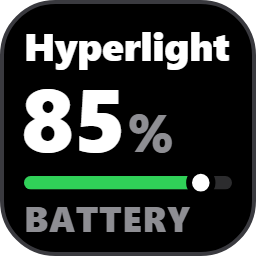
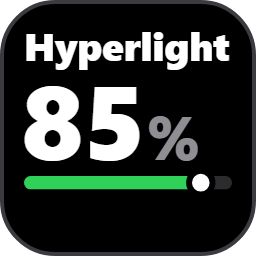
Stream Deck: Optician Sans number, status colours, update dot opt-in
The battery number and % are bigger and use Optician Sans when it's
installed (Segoe UI Black otherwise). Its digits are drawn one by one,
6% closer, because Stream Deck ignores negative letter-spacing and the
% ended up overlapping the number. The number, % and bar fill turn
orange from 25% down, red below 20%, and electric blue while charging.
The bottom line is empty unless there's something to say, the charging
bolt is gone, and the update dot is now off by default.

Changed region(s): [[0.0938, 0.3125, 0.7812, 0.6562], [0.0938, 0.7812, 0.75, 0.9062]]

diff --git a/streamdeck/com.fayewave.hyperlight.sdPlugin/bin/key.js b/streamdeck/com.fayewave.hyperlight.sdPlugin/bin/key.js
@@ -1,7 +1,7 @@
 // Draws the key in the same text-first style as the Aircon plugin's keys (after the
 // Apple Watch Modular complications): "Hyperlight" top left in white, the percent as
-// the biggest thing on the key (orange or red when low), a thin 0-100% bar (green up
-// to a dot at the level, grey after), and a small caps line underneath.
+// the biggest thing on the key (orange or red when low), a thin 0-100% bar (green, or
+// the number's orange or red, up to a dot at the level, grey after), and a small caps line underneath.
 //
 // Keys are drawn in a 96-unit box (one unit = one Stream Deck XL pixel) and handed to
 // Stream Deck as a 144px SVG. Stream Deck's SVG renderer is basic, so: no CSS, no
@@ -10,7 +10,8 @@ import fs from "node:fs";
 import path from "node:path";
 
 /** Apple's system colours, as on the Aircon keys. */
-export const COLORS = { healthy: "#30D158", moderate: "#FF9F0A", low: "#FF453A", stale: "#8E8E93" };
+/** charging: an electric blue, deeper than the update dot's light blue. */
+export const COLORS = { healthy: "#30D158", moderate: "#FF9F0A", low: "#FF453A", stale: "#8E8E93", charging: "#1E9BFF" };
 const GREY = "#8E8E93";
 const DIM = "#636366";
 const TRACK = "#2C2C2E";
@@ -24,20 +25,20 @@ export function tone(percent) {
 
 /**
  * The key's own options (its settings in Stream Deck). The text lines are off until
- * turned on, so by default the bottom line just says Battery; the update dot is on.
+ * turned on, so by default the bottom line is empty; so is the update dot.
  */
 export function options(settings) {
   return {
     remaining: settings?.showRemaining === true,
     charging: settings?.showCharging === true,
     asleep: settings?.showAsleep === true,
-    update: settings?.showUpdate !== false,
+    update: settings?.showUpdate === true,
   };
 }
 
 /**
  * What to show for a tray reply (see tray.js); undefined means not read yet.
- * { percent, color, caption, bolt, dim, dot } for a reading (color: the number's
+ * { percent, color, caption, dim, dot } for a reading (color: the number's
  * colour when low, else null for white), or
  * { word, caption } for a key with no number ("Start / Tray").
  */
@@ -45,13 +46,13 @@ export function view(s, opts = options()) {
   const dot = Boolean(s?.update) && opts.update;
   switch (s?.state) {
     case "battery": {
-      const charging = s.charging && opts.charging;
-      const caption = charging ? "Charging" : !s.charging && opts.remaining && s.remaining ? s.remaining : "Battery";
-      const t = tone(s.percent);
-      return { percent: s.percent ?? null, color: t === "healthy" ? null : COLORS[t], caption, bolt: charging, dot };
+      const caption = s.charging && opts.charging ? "Charging" : !s.charging && opts.remaining && s.remaining ? s.remaining : "";
+      // Charging turns the number and bar blue whether or not the Charging text is on.
+      const t = s.charging ? "charging" : tone(s.percent);
+      return { percent: s.percent ?? null, color: t === "healthy" ? null : COLORS[t], caption, dot };
     }
     case "asleep":
-      return { percent: s.percent ?? null, color: null, caption: opts.asleep ? "Asleep" : "Battery", dim: true, dot };
+      return { percent: s.percent ?? null, color: null, caption: opts.asleep ? "Asleep" : "", dim: true, dot };
     case "noReceiver":
       return { word: "No", caption: "Receiver", dot };
     case "stopped":
@@ -61,7 +62,7 @@ export function view(s, opts = options()) {
     case "missing":
       return { word: "Get", caption: "Tray" };
     default: // "checking", or before the first reply
-      return { percent: null, color: null, caption: "Battery", dim: true };
+      return { percent: null, color: null, caption: "", dim: true };
   }
 }
 
@@ -77,6 +78,20 @@ export function pickFont(dirs = fontDirs()) {
   }
   return "Segoe UI";
 }
+/**
+ * The battery number's font: Optician Sans when installed (a free font after the
+ * letters on eye charts), else null for the same font as the rest of the key.
+ */
+export function pickNumberFont(dirs = fontDirs()) {
+  for (const dir of dirs) {
+    try {
+      if (fs.readdirSync(dir).some((f) => /^optician/i.test(f))) return "Optician Sans";
+    } catch {
+      // folder missing
+    }
+  }
+  return null;
+}
 function fontDirs() {
   const dirs = [path.join(process.env.WINDIR ?? "C:\\Windows", "Fonts")];
   if (process.env.LOCALAPPDATA) dirs.push(path.join(process.env.LOCALAPPDATA, "Microsoft", "Windows", "Fonts"));
@@ -84,6 +99,8 @@ function fontDirs() {
 }
 let FONT = "Segoe UI";
 export const setFont = (f) => (FONT = f);
+let NUM_FONT = null;
+export const setNumberFont = (f) => (NUM_FONT = f);
 
 /*
  * Stream Deck can't measure text for us, so: advance widths (thousandths of the font
@@ -100,6 +117,10 @@ const WIDTHS = {
     900: table("286,272,515,600,600,964,766,269,407,407,456,600,272,445,272,349,600,600,600,600,600,600,600,600,600,600,272,272,600,600,600,478,954,763,702,688,786,614,579,747,786,312,390,712,585,884,758,807,676,807,706,651,644,748,742,1128,698,645,625,401,349,401,600,500,399,568,620,484,620,555,402,626,606,281,287,580,348,902,606,602,620,620,434,496,426,601,542,868,572,541,487,438,316,438,600,816,272,389"),
   },
 };
+/** Optician Sans comes in one weight; widths of what the number line can show (from its hmtx table). */
+const OPTICIAN = new Map(Object.entries({ 0: 0.6, 1: 0.55, 2: 0.55, 3: 0.55, 4: 0.551, 5: 0.55, 6: 0.55, 7: 0.515, 8: 0.55, 9: 0.55, "%": 0.77, "–": 0.8 }));
+const opticianWidth = (str, size) => [...String(str)].reduce((w, ch) => w + (OPTICIAN.get(ch) ?? 0.8), 0) * size;
+
 /** Width of str in the current font. spacing = letter-spacing, added after each character. */
 export function textWidth(str, size, { weight = 800, spacing = 0 } = {}) {
   const t = (WIDTHS[FONT] ?? WIDTHS["Segoe UI"])[weight >= 850 ? 900 : 800];
@@ -120,8 +141,8 @@ function truncate(str, size, max, opts = {}) {
 /* ---------- primitives ---------- */
 const f2 = (n) => Number(n.toFixed(2));
 const esc = (t) => String(t).replace(/[&<>"]/g, (c) => ({ "&": "&amp;", "<": "&lt;", ">": "&gt;", '"': "&quot;" })[c]);
-const text = (x, y, str, { size = 14, weight = 800, fill = "#fff", spacing = 0 } = {}) =>
-  `<text x="${f2(x)}" y="${f2(y)}" font-family="${FONT}" font-size="${size}" font-weight="${weight}" fill="${fill}" ` +
+const text = (x, y, str, { size = 14, weight = 800, fill = "#fff", spacing = 0, family = FONT } = {}) =>
+  `<text x="${f2(x)}" y="${f2(y)}" font-family="${family}" font-size="${size}" font-weight="${weight}" fill="${fill}" ` +
   `text-anchor="start"${spacing ? ` letter-spacing="${spacing}"` : ""}>${esc(str)}</text>`;
 const wrap = (body) =>
   `<svg xmlns="http://www.w3.org/2000/svg" width="144" height="144" viewBox="0 0 96 96">` +
@@ -147,17 +168,14 @@ function footer(str, color, max) {
   while (size > 11.5 && textWidth(str, size, o) > max) size -= 0.5;
   return text(X, 87, truncate(str, size, max, o), { size, ...o, fill: color });
 }
-/** A charging bolt, the Aircon plugin's "bolt" icon. */
-const bolt = (x, y, s, c) =>
-  `<g transform="translate(${f2(x)} ${f2(y)}) scale(${f2(s / 24)})"><path d="M13.8 1.8 4.6 13.6H11.4L10.2 22.2 19.4 10.4H12.6Z" fill="${c}"/></g>`;
 
-/** The 0-100% bar: green up to the level, the grey track after it, and a white dot at the level. */
-function bar(percent, dim) {
+/** The 0-100% bar: green (orange or red when low) up to the level, the grey track after it, and a white dot at the level. */
+function bar(percent, dim, color = COLORS.healthy) {
   const track = `<rect x="${X}" y="${BAR.y}" width="${BAR.w}" height="${BAR.h}" rx="${BAR.h / 2}" fill="${TRACK}"/>`;
   if (percent == null) return track;
   const p = Math.max(0, Math.min(100, percent)) / 100;
   let s = track;
-  if (p > 0) s += `<g opacity="${dim ? OFF.fade : 1}"><rect x="${X}" y="${BAR.y}" width="${f2(Math.max(BAR.h, BAR.w * p))}" height="${BAR.h}" rx="${BAR.h / 2}" fill="${COLORS.healthy}"/></g>`;
+  if (p > 0) s += `<g opacity="${dim ? OFF.fade : 1}"><rect x="${X}" y="${BAR.y}" width="${f2(Math.max(BAR.h, BAR.w * p))}" height="${BAR.h}" rx="${BAR.h / 2}" fill="${color}"/></g>`;
   s += `<circle cx="${f2(X + BAR.w * p)}" cy="${BAR.y + BAR.h / 2}" r="4.4" fill="${dim ? OFF.dot : "#fff"}" stroke="#000" stroke-width="2.2"/>`;
   return s;
 }
@@ -176,14 +194,32 @@ export function keySvg(v) {
   } else {
     const num = v.percent == null ? "–" : String(v.percent);
     s += name("#fff");
-    s += text(X - 1, NUM_Y, num, { size: 33, weight: 900, fill: v.dim ? OFF.number : (v.color ?? "#fff") });
+    // The number and its % in Optician Sans when installed (Regular only, so weight 400:
+    // asking for bold would get a smeared fake bold), else the key's own font.
+    const nf = NUM_FONT ? { family: NUM_FONT, weight: 400 } : { weight: 900 };
+    // Optician Sans spaces its digits wide, so they're pulled 6% of the size closer. Stream
+    // Deck ignores negative letter-spacing, so each digit is placed on its own.
+    const tight = (size) => (NUM_FONT ? -0.06 * size : 0);
+    const numWidth = (str, size) => (NUM_FONT ? opticianWidth(str, size) + tight(size) * [...str].length : textWidth(str, size, { weight: 900 }));
+    // Bigger than the Aircon keys' 33, sat 3 lower to make room; "100%" a size down to fit.
+    // Optician Sans's digits sit shorter than Segoe UI Black's, so it gets more.
+    const three = num.length >= 3;
+    const [size, pct] = NUM_FONT ? (three ? [38, 22] : [44, 25]) : three ? [34, 20] : [39, 23];
+    const y = NUM_Y + 3;
+    const numFill = v.dim ? OFF.number : (v.color ?? "#fff");
+    if (NUM_FONT) {
+      let x = X - 1;
+      for (const ch of num) {
+        s += text(x, y, ch, { size, ...nf, fill: numFill });
+        x += opticianWidth(ch, size) + tight(size);
+      }
+    } else s += text(X - 1, y, num, { size, ...nf, fill: numFill });
     // A small % after the number, like the Zones key's "/6" (grey, or the number's colour
-    // when low); a green bolt instead while charging.
-    const after = X + textWidth(num, 33, { weight: 900 }) - 1;
-    if (v.bolt) s += bolt(after, NUM_Y - 20, 20, COLORS.healthy);
-    else if (v.percent != null) s += text(after, NUM_Y, "%", { size: 20, weight: 900, fill: v.dim ? OFF.text : (v.color ?? GREY) });
-    s += bar(v.percent, v.dim);
-    s += footer(v.caption, v.dim ? OFF.text : GREY, footMax);
+    // when low or charging).
+    const after = X + numWidth(num, size) + (NUM_FONT ? 1.5 : -1);
+    if (v.percent != null) s += text(after, y, "%", { size: pct, ...nf, fill: v.dim ? OFF.text : (v.color ?? GREY) });
+    s += bar(v.percent, v.dim, v.color ?? COLORS.healthy);
+    if (v.caption) s += footer(v.caption, v.dim ? OFF.text : GREY, footMax);
   }
   if (v.dot) s += `<circle cx="84" cy="82.5" r="5" fill="${ACCENT}"/>`;
   return wrap(s);

diff --git a/streamdeck/com.fayewave.hyperlight.sdPlugin/ui/battery.html b/streamdeck/com.fayewave.hyperlight.sdPlugin/ui/battery.html
@@ -33,7 +33,7 @@
       <label class="check"><input type="checkbox" id="showCharging"> Charging text</label>
       <label class="check"><input type="checkbox" id="showAsleep"> Asleep text</label>
       <label class="check"><input type="checkbox" id="showRemaining"> Time remaining text</label>
-      <label class="check"><input type="checkbox" id="showUpdate" checked> Update dot</label>
+      <label class="check"><input type="checkbox" id="showUpdate"> Update dot</label>
     </div>
   </div>
   <p class="hint">Press the key to re-read the battery. Hold it to open the configurator.</p>

diff --git a/streamdeck/com.fayewave.hyperlight.sdPlugin/bin/plugin.js b/streamdeck/com.fayewave.hyperlight.sdPlugin/bin/plugin.js
@@ -5,9 +5,10 @@
 // Without the tray running, press starts it (or opens the download page).
 import { connect } from "./socket.js";
 import { Tray, RELEASES, findTrayExe, launch, trayIsRunning } from "./tray.js";
-import { view, options, keySvg, dataUrl, setFont, pickFont } from "./key.js";
+import { view, options, keySvg, dataUrl, setFont, pickFont, setNumberFont, pickNumberFont } from "./key.js";
 
 setFont(pickFont());
+setNumberFont(pickNumberFont());
 
 const POLL_MS = Number(process.env.HYPERLIGHT_POLL_MS) || 5000;
 const HOLD_MS = 500;

diff --git a/README.md b/README.md
@@ -34,9 +34,9 @@ Download `com.fayewave.hyperlight.streamDeckPlugin` from
 [Releases](https://github.com/fayewave/hyperlight-tray/releases/latest) and double-click it. Then drag
 **Hyperlight Tray > Mouse Battery** onto a key. It needs Stream Deck 6.5 or later, and Hyperlight Tray running.
 
-The key shows the same number and colours as the tray icon, and the blue dot when there's an update. In the key's
-settings you can add a line under the number for charging, asleep or the time remaining. Press the key to re-read
-the battery, or hold it to open the configurator. If the tray isn't running, pressing the key starts it.
+The key shows the battery percent over a bar, orange or red when it's low and blue while charging. In the key's
+settings you can add a line under the bar for charging, asleep or the time remaining, and a blue dot when there's an
+update. Press the key to re-read the battery, or hold it to open the configurator. If the tray isn't running, pressing the key starts it.
 
 ## Privacy and safety
 
